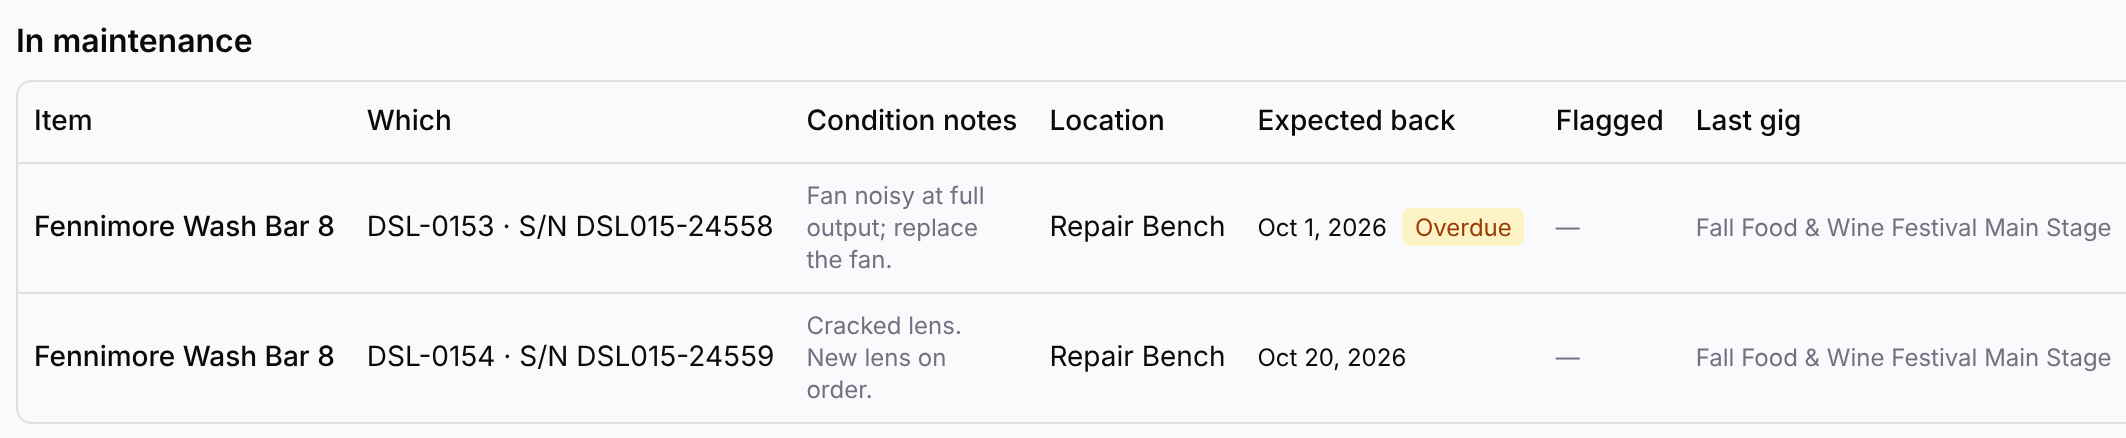
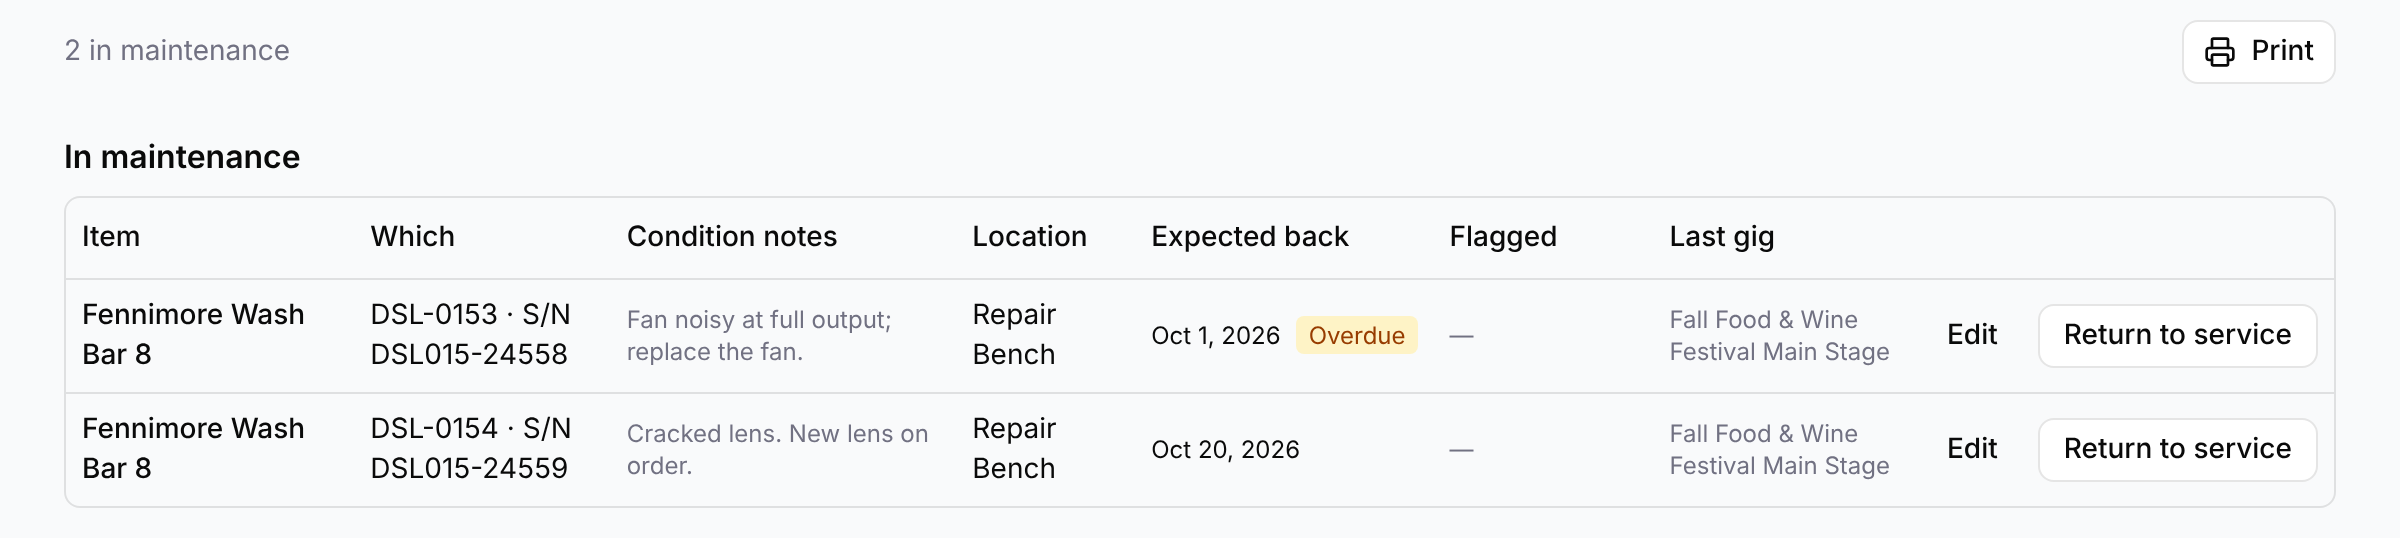
User guide: Maintenance on the phone and in Locations (#186 steps 3–4) (#302)
* User guide: Equipment › Maintenance (#186 steps 1–2, live in prod 10-22)

Maintenance section in inventory-reports (sending, reading the list, Edit, Return to
service, Cancel flag), plus fixes on overview, kits, conflict-detection, Locations
(Mark for Maintenance) and the phone's Send to Maintenance. New shot, cropped before
the actions until #300.

Claude-Session: https://claude.ai/code/session_0118YwkJXDrQDMYNEuMW5wT3

* User guide (held): phone Send to Maintenance for #186 step 3 (#299)

Held until #299 is in prod. Builds on PR #301.

Claude-Session: https://claude.ai/code/session_0118YwkJXDrQDMYNEuMW5wT3

* User guide (held for #299 deploy): flagged-at-another-gig and none-home notes; "2 of the lot of 10"

Claude-Session: https://claude.ai/code/session_0118YwkJXDrQDMYNEuMW5wT3

* User guide (held for #299/#303 deploy): #186 step 4 — Locations Send to maintenance, In maintenance / Flagged tags, card text, packing list; full-width Maintenance shot (#300 fixed)

Claude-Session: https://claude.ai/code/session_0118YwkJXDrQDMYNEuMW5wT3

---------

diff --git a/website/docs/src/content/docs/equipment/inventory-reports.md b/website/docs/src/content/docs/equipment/inventory-reports.md
@@ -71,6 +71,8 @@ under **Qty**, and the size of the lot you're taking them from underneath, such 
 "XLR Cable, 50 ft", **Qty** 2, "from a lot of 10". While a lot is partly packed,
 **Status** shows how many are packed so far, such as "4 of 6".
 
+A unit or lot that's in [maintenance](#maintenance) has an **In maintenance** tag.
+
 ### "Any" lines
 
 An "any" line asks for a number of whatever units of an item you own. It shows the
@@ -81,6 +83,8 @@ Its **Status** shows how many are packed so far: for an item whose units have ta
 how many are scanned, such as "1 of 4", with the tags of those units under the name.
 For an item with no tags, it shows how many were counted and how many are still
 missing, such as "7 counted · 3 short", and then "10 counted" once they're all there.
+When a line is short and some of the item is in maintenance, it says so, such as
+"7 counted · 3 short · 2 in maintenance".
 
 A unit that's on its own line elsewhere in the same kit doesn't fill an "any" line.
 
@@ -137,16 +141,22 @@ it is, what's wrong with it, where it is and when it's due back. Everyone in the
 organization can see the list. Admins, Managers and Staff can update it; Viewers see
 it without buttons.
 
-![The In maintenance table: two Fennimore Wash Bar 8 units, with their tags and serials, condition notes, Repair Bench, expected-back dates (one marked Overdue) and their last gig](../../../assets/screenshots/equipment/inventory-reports-maintenance.png)
+![The In maintenance table: two Fennimore Wash Bar 8 units, with their tags and serials, condition notes, Repair Bench, expected-back dates (one marked Overdue), their last gig, and Edit and Return to service](../../../assets/screenshots/equipment/inventory-reports-maintenance.png)
 
 ### Sending equipment to maintenance
 
-- **On a computer:** open the unit or lot, choose **Edit**, set **Status** to
-  **Maintenance** and save. Then add its details from the list.
-- **On a phone, while scanning:** turn on **Send to Maintenance** in a line's note. See
-  [Notes and Maintenance](/mobile/field-inventory/#notes-and-maintenance).
+- **On a computer, from Locations:** open the line's correction and tick **Mark for
+  Maintenance**, with how many for a lot, a location and an expected-back date. See
+  [Sending to maintenance](/equipment/location-explorer/#sending-to-maintenance).
+- **On a computer, from the equipment page:** choose **Edit**, set **Status** to
+  **Maintenance** and save. The whole unit or lot goes in; add its details from the list.
+- **On a phone, while scanning:** turn on **Send to Maintenance** in a line's note, with
+  a location, an expected-back date and, for a lot, how many. Something still out at
+  the gig is flagged and goes in when it's unloaded. See
+  [Sending to maintenance](/mobile/field-inventory/#sending-to-maintenance).
 
-Either way, the whole unit or lot goes in at once.
+From Locations or a phone, something still out at a gig is flagged and goes in when it
+comes home.
 
 Equipment in maintenance isn't counted as available in a kit's **Availability**, and a
 gig's [Equipment needed](/gigs/conflict-detection/#equipment-needed) table counts it
@@ -160,7 +170,8 @@ the list.
 Each row shows:
 
 - **Item** and **Which:** a unit's tag and serial, such as "DSL-0153 · S/N DSL015-24558",
-  or for a lot "Whole lot of 6". Pieces split off a lot read "2 split from the lot (now 8)".
+  or for a lot "Whole lot of 6". Pieces split off a lot read "2 split from the lot (now 8)",
+  and part of a lot that's flagged reads "2 of the lot of 10".
 - **Condition notes:** what's wrong with it.
 - **Location:** where it is while it's being fixed, such as "Repair Bench". This is the
   list's own field; [Locations](/equipment/location-explorer/) shows where its last scan
@@ -169,8 +180,8 @@ Each row shows:
 - **Flagged:** when it was sent to maintenance, and by whom.
 - **Last gig:** the gig it was last used on.
 
-**Flagged, not home yet** appears below when equipment has been marked to go into
-maintenance when it comes back from a gig. It shows the gig in **Coming home from**.
+**Flagged, not home yet** appears below when equipment has been marked, on a phone or
+from Locations, to go into maintenance when it comes back from a gig. It shows the gig in **Coming home from**.
 Until it's back, it stays available and at the gig; when it's unloaded, it moves to
 **In maintenance**.
 

diff --git a/website/docs/src/content/docs/equipment/location-explorer.md b/website/docs/src/content/docs/equipment/location-explorer.md
@@ -19,7 +19,9 @@ place, such as "Staging Area" or "Warehouse, Bay 2", with how many pieces are th
 Inside each place, equipment is listed under its kit, which has an **Items** badge.
 Each line shows the **Item**, its **Tag #**, the **Gig** of its latest record and when
 it was **Last Scanned**. A lot's line also shows how many of its pieces are at that
-place, such as "2 of 10".
+place, such as "2 of 10". Equipment in maintenance has an **In maintenance** tag, with
+its maintenance location when it has one, and equipment flagged to go when it comes home
+has a **Flagged to maintenance** tag.
 
 Each piece of equipment shows where its newest record puts it, across all gigs. A
 monitor that went out to one gig and then on to another shows once, at the second gig.
@@ -52,7 +54,9 @@ Use the filters at the top to narrow the list:
   all of it is, for example "XLR Cable, 50 ft: 2 at Harvest Gala Dinner & Dance (Staging
   Area) · 8 not checked out". Pieces at home read "not checked out", unless they all came back
   on an **Unload** scan; then the card names where they were unloaded, such as
-  "6 at Warehouse".
+  "6 at Warehouse". Pieces in maintenance read, for example, "2 in maintenance · Repair
+  Bench", and pieces flagged at a gig add "2 flagged to maintenance". The item's own page
+  lists the same places under **Where they are**.
 - **Location:** one place, such as "Truck".
 - **Gig:** equipment whose current record is from that gig. Equipment that has since
   moved on to another gig isn't listed.
@@ -69,11 +73,10 @@ without being scanned.
 1. Select the pencil button at the end of the item's line, or of the case's line.
 2. In **Manual Tracking Override**, choose the **Gig**, the **Status** and the
    **Location**, and add **Notes** if you like.
-3. Leave **Mark for Maintenance** unticked. For now it only changes this record: the
-   item drops out of Locations and doesn't go on the
-   [Maintenance](/equipment/inventory-reports/#maintenance) list. To send something for
-   repair, set its **Status** to **Maintenance** on its own page instead.
-4. Select **Save Override**.
+3. Select **Save Override**.
+
+To send a unit or lot for repair instead, see
+[Sending to maintenance](#sending-to-maintenance) below.
 
 The correction is a new record, so the item moves to its new place right away, and
 the history of earlier records stays. Correcting a case moves the case. What's in it
@@ -93,6 +96,23 @@ line, so the count goes away.
 If the pieces are in a case and you move some to another gig, the dialog warns "These
 2 leave Mic Case. The case stays at Cedar Hall Fall Songwriter Showcase." The pieces you
 move are loose at the new gig, and the rest stay in the case.
+
+### Sending to maintenance
+
+In **Manual Tracking Override**, tick **Mark for Maintenance**. The gig and status fields
+give way to:
+
+- **Send** *N* **of the** *M* **at** … for a lot, such as 2 of the 12 at Warehouse, Bay 2;
+- **Maintenance location**, such as "Repair Bench", and **Expected back**;
+- **Notes**, which become its condition notes.
+
+Select **Send to maintenance**. Something at home goes into maintenance now; pieces of a
+lot split off into their own entry. Something still out at a gig is flagged and goes in
+when it comes home. Either way it's on the
+[Maintenance](/equipment/inventory-reports/#maintenance) list.
+
+For a unit or lot that's already in maintenance or flagged, the dialog says so instead of
+offering the box.
 
 ## Related
 

diff --git a/website/docs/src/content/docs/mobile/field-inventory.md b/website/docs/src/content/docs/mobile/field-inventory.md
@@ -68,7 +68,8 @@ An "any" line asks for a number of any units of an item, such as
 
 - **Tagged units:** scan any of your units. Each one fills the line by one.
 - **Items with no tags:** tap the line. GigWrangler takes the pieces from what's at
-  home and fills the line. If there aren't enough, a message says how many are short.
+  home and fills the line, skipping lots that are in maintenance or inactive. If there
+  aren't enough, a message says how many are short.
 
 ## Before you pack
 
@@ -104,10 +105,41 @@ Location**, the gig, and that record's notes if it has any. Enter your note and 
 A note is a record of its own: it never checks anything off or changes a count. A
 note on a kit is about the kit as a whole and doesn't touch what's inside it.
 
-To take a unit or lot out of service, turn on **Send to Maintenance** and tap **Save**.
-The whole unit or lot goes onto the
-[Maintenance](/equipment/inventory-reports/#maintenance) list, and the note ends with "Sent to Maintenance." Admins, Managers
-and Staff see this switch.
+### Sending to maintenance
+
+Admins, Managers and Staff can take a unit or lot out of service from its note. Turn
+on **Send to Maintenance**, then fill in what you know:
+
+- **Maintenance location**, such as "Repair Bench";
+- **Expected back**, the date it should be fixed;
+- **How many**, for a lot: 1 to start with, for the one bad cable. With some of the lot
+  out at this gig you can flag up to the whole lot; otherwise, up to what's at home.
+
+Your note becomes its condition notes. Tap **Save**. The note ends with "Sent to
+Maintenance."
+
+What happens next depends on where it is:
+
+- **Still out**, like a wedge that cracked at the venue: the line is marked **To
+  maintenance** (**To maintenance · 2** for part of a lot). It stays on the gig and
+  goes into maintenance when you **Unload** it.
+- **Home:** it goes into maintenance now, and the line is marked **Maintenance**. Part
+  of a lot splits off into its own entry.
+
+Either way it's on the [Maintenance](/equipment/inventory-reports/#maintenance) list.
+
+**A lot that's already flagged** shows "Flagged: 2 of 10". Enter **Add more** to flag
+more of it. To change the location or date, edit them and tap **Save**. If it was
+flagged at another gig, the note names that gig, and more can only be added there. If
+none of a lot is home and none is out at this gig, the note says to flag it from the
+gig it's out at.
+
+**To undo it,** turn **Send to Maintenance** off and tap **Save**. A flag is cancelled;
+something already in maintenance goes back into service with the status it had
+before. Pieces split off a lot go back into their lot from the
+[Maintenance](/equipment/inventory-reports/#maintenance) list.
+
+This works offline too, and syncs when you're back online.
 
 **Clear note** empties the box; tap **Save** to keep it empty. **Cancel** closes without
 saving.
